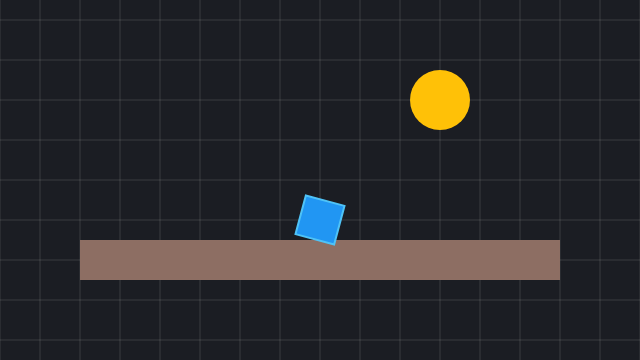
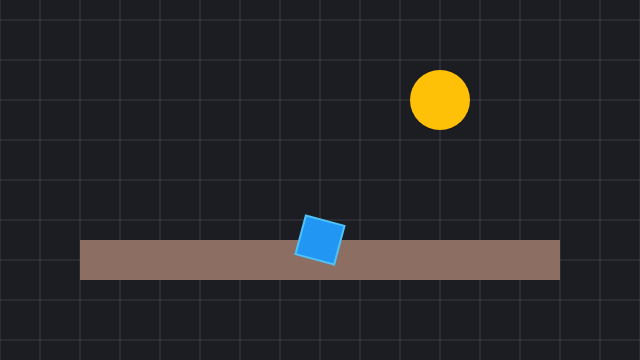
fix(graphics): guard camera zoom, bound grid drawing, iterative traversal, real layer-order pixel check

Changed region(s): [[0.4375, 0.5194, 0.5625, 0.7333]]

diff --git a/render/src/commonMain/kotlin/dev/spawnkit/render/RuntimeCanvas.kt b/render/src/commonMain/kotlin/dev/spawnkit/render/RuntimeCanvas.kt
@@ -55,7 +55,7 @@ fun RuntimeCanvas(
     Canvas(modifier) {
         drawRenderList(
             frame,
-            ViewTransform(camera, size.width.toDouble(), size.height.toDouble(), pixelsPerUnit.toDouble()),
+            ViewTransform(safeCamera(camera), size.width.toDouble(), size.height.toDouble(), safeScale(pixelsPerUnit)),
             images,
             selection,
             style,
@@ -129,30 +129,48 @@ private fun DrawScope.drawGrid(
     view: ViewTransform,
     color: Color,
 ) {
+    // Power-of-ten spacing keeps lines at least MIN_GRID_PX apart at any zoom; integer indices and a cap bound the work.
+    var step = 1.0
+    while (step * view.scale < MIN_GRID_PX) step *= 10.0
+    while (step / 10.0 * view.scale >= MIN_GRID_PX && step > 1e-6) step /= 10.0
     val (left, top) = view.toWorld(0.0, 0.0)
-    val (right, bottom) = view.toWorld(size.width.toDouble(), size.height.toDouble())
-    val step = if (view.scale < 8) 10.0 else 1.0
-    var x = floor(left / step) * step
-    while (x <= right) {
+    val (right, bottom) = view.toWorld(view.widthPx, view.heightPx)
+    val firstX = floor(left / step).toLong()
+    val firstY = floor(top / step).toLong()
+    val countX = ((right - left) / step).toLong().coerceIn(0, MAX_GRID_LINES) + 2
+    val countY = ((bottom - top) / step).toLong().coerceIn(0, MAX_GRID_LINES) + 2
+    for (i in 0 until countX) {
         val sx =
             view.worldToScreen
-                .apply(x, 0.0)
+                .apply((firstX + i) * step, 0.0)
                 .first
                 .toFloat()
-        drawLine(color, Offset(sx, 0f), Offset(sx, size.height))
-        x += step
+        drawLine(color, Offset(sx, 0f), Offset(sx, view.heightPx.toFloat()))
     }
-    var y = floor(top / step) * step
-    while (y <= bottom) {
+    for (i in 0 until countY) {
         val sy =
             view.worldToScreen
-                .apply(0.0, y)
+                .apply(0.0, (firstY + i) * step)
                 .second
                 .toFloat()
-        drawLine(color, Offset(0f, sy), Offset(size.width, sy))
-        y += step
+        drawLine(color, Offset(0f, sy), Offset(view.widthPx.toFloat(), sy))
     }
 }
+
+private const val MIN_GRID_PX = 8.0
+private const val MAX_GRID_LINES = 1_000L
+
+/** A camera safe to render: an invalid zoom (non-finite or not positive) falls back to 1. */
+private fun safeCamera(camera: CameraView): CameraView =
+    if (camera.zoom.isFinite() &&
+        camera.zoom > 0.0
+    ) {
+        camera
+    } else {
+        camera.copy(zoom = 1.0)
+    }
+
+private fun safeScale(pixelsPerUnit: Float): Double = if (pixelsPerUnit.isFinite() && pixelsPerUnit > 0f) pixelsPerUnit.toDouble() else 48.0
 
 /** Converts an ARGB long (`0xAARRGGBB`) to a Compose color. */
 fun argb(value: Long): Color = Color(value.toInt())

diff --git a/core/graphics/src/commonMain/kotlin/dev/spawnkit/graphics/RenderList.kt b/core/graphics/src/commonMain/kotlin/dev/spawnkit/graphics/RenderList.kt
@@ -203,17 +203,17 @@ public fun Graphics2D.renderList(world: World): RenderList {
     val transforms = LinkedHashMap<EntityHandle, Affine2D>()
     val order = ArrayList<EntityHandle>()
 
-    fun visit(
-        entity: EntityHandle,
-        parent: Affine2D,
-    ) {
+    // Pre-order traversal with an explicit stack, so deep hierarchies cannot overflow the call stack.
+    val pending = ArrayDeque<Pair<EntityHandle, Affine2D>>()
+    for (root in world.entities().asReversed()) if (world.parent(root) == null) pending.addLast(root to Affine2D.IDENTITY)
+    while (pending.isNotEmpty()) {
+        val (entity, parent) = pending.removeLast()
         val local = world.get(entity, transform)?.let(Affine2D::of) ?: Affine2D.IDENTITY
         val combined = parent * local
         transforms[entity] = combined
         order += entity
-        for (child in world.children(entity)) visit(child, combined)
+        for (child in world.children(entity).asReversed()) pending.addLast(child to combined)
     }
-    for (root in world.entities()) if (world.parent(root) == null) visit(root, Affine2D.IDENTITY)
 
     val items = ArrayList<DrawItem>()
     var activeCamera: CameraView? = null
@@ -226,9 +226,15 @@ public fun Graphics2D.renderList(world: World): RenderList {
             items += DrawItem.Sprite(entity, placed, it.layer, it.width, it.height, it.asset, it.tint)
         }
         if (activeCamera == null) {
-            world.get(entity, camera)?.takeIf { it.active }?.let { activeCamera = CameraView(placed.tx, placed.ty, it.zoom) }
+            world.get(entity, camera)?.takeIf { it.active && it.zoom.isFinite() && it.zoom > 0.0 }?.let {
+                // Values set natively bypass descriptor ranges; clamp so a bad zoom cannot break rendering.
+                activeCamera = CameraView(placed.tx, placed.ty, it.zoom.coerceIn(MIN_ZOOM, MAX_ZOOM))
+            }
         }
     }
     // A stable sort keeps scene order within each layer.
     return RenderList(items.sortedBy { it.layer }, activeCamera, transforms)
 }
+
+private const val MIN_ZOOM = 0.01
+private const val MAX_ZOOM = 100.0

diff --git a/render/src/jvmTest/kotlin/dev/spawnkit/render/RuntimeCanvasRenderTest.kt b/render/src/jvmTest/kotlin/dev/spawnkit/render/RuntimeCanvasRenderTest.kt
@@ -33,7 +33,7 @@ class RuntimeCanvasRenderTest {
         world.set(sun, graphics.transform, Transform2D(x = 3.0, y = -2.0))
         world.set(sun, graphics.shape, Shape2D(form = Shape2D.ELLIPSE, width = 1.5, height = 1.5, color = 0xFFFFC107))
         val hero = world.spawn()
-        world.set(hero, graphics.transform, Transform2D(x = 0.0, y = 1.0, rotation = 15.0))
+        world.set(hero, graphics.transform, Transform2D(x = 0.0, y = 1.5, rotation = 15.0))
         world.set(hero, graphics.shape, Shape2D(width = 1.0, height = 1.0, color = 0xFF2196F3, layer = 1))
         val frame = graphics.renderList(world)
 
@@ -52,8 +52,8 @@ class RuntimeCanvasRenderTest {
         val bitmap = Bitmap.makeFromImage(image)
         // World (0, 2) is the ground centre: 320 + 0·40, 180 + 2·40.
         assertEquals(0xFF8D6E63.toInt(), bitmap.getColor(320 - 100, 260))
-        // The hero (layer 1) covers the ground where they overlap at world (0, 1.4).
-        assertEquals(0xFF2196F3.toInt(), bitmap.getColor(320, 236))
+        // World (0, 1.75) lies inside both the ground and the hero; the hero (layer 1) must be drawn on top.
+        assertEquals(0xFF2196F3.toInt(), bitmap.getColor(320, 250))
         // The sun's centre at world (3, -2) → pixel (440, 100).
         assertEquals(0xFFFFC107.toInt(), bitmap.getColor(440, 100))
         val out = File("build/screenshots").apply { mkdirs() }.resolve("runtime-canvas.png")

diff --git a/core/graphics/src/commonTest/kotlin/dev/spawnkit/graphics/Graphics2DTest.kt b/core/graphics/src/commonTest/kotlin/dev/spawnkit/graphics/Graphics2DTest.kt
@@ -123,4 +123,28 @@ class Graphics2DTest {
         val restored = fixture.runtime.restore(fixture.world.snapshot())
         assertEquals(fixture.world.stateHash(), restored.stateHash())
     }
+
+    @Test
+    fun invalidCameraZoomIsIgnoredOrClampedAndDeepHierarchiesRender() {
+        val fixture = Fixture()
+        val broken = fixture.world.spawn()
+        fixture.world.set(broken, fixture.graphics.camera, Camera2D(zoom = Double.NaN))
+        val huge = fixture.world.spawn()
+        fixture.world.set(huge, fixture.graphics.camera, Camera2D(zoom = 1e9))
+        assertEquals(
+            100.0,
+            fixture.graphics
+                .renderList(fixture.world)
+                .camera
+                ?.zoom,
+        )
+        var parent = fixture.box(Transform2D(x = 1.0))
+        repeat(5_000) {
+            val child = fixture.box(Transform2D(x = 1.0))
+            fixture.world.setParent(child, parent)
+            parent = child
+        }
+        val list = fixture.graphics.renderList(fixture.world)
+        assertEquals(5_001.0, list.worldTransform(parent).tx)
+    }
 }

diff --git a/docs/graphics-2d.md b/docs/graphics-2d.md
@@ -45,7 +45,9 @@ desktop, iOS, JS and Wasm.
 ![Runtime canvas](media/runtime-canvas.png)
 
 The image above is produced by `RuntimeCanvasRenderTest` (JVM), which renders a runtime scene offscreen with Skia and
-asserts actual pixel colors: the ground, the layered hero over it, and the camera-relative sun position.
+asserts actual pixel colors: the ground, the hero drawn over the ground where both overlap (layer order), and the
+camera-relative sun position. Invalid camera zoom values set natively are ignored or clamped, and the grid spacing
+adapts in powers of ten with a bounded line count.
 
 ## Evidence
 
